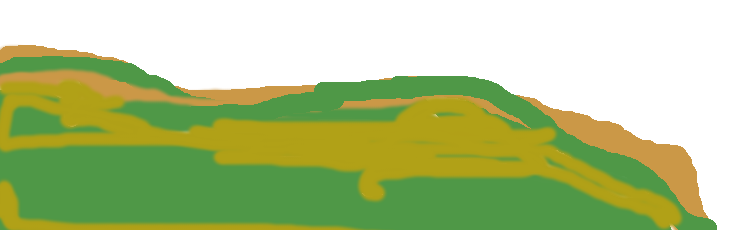
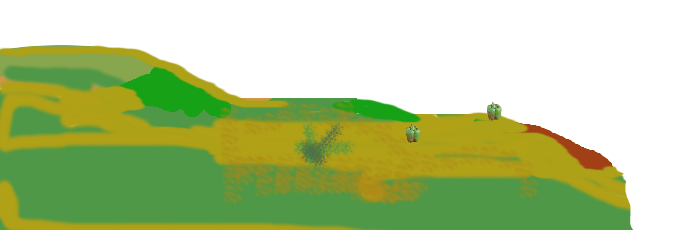
Avoid "Walking in the Air" mode

diff --git a/public_html/js/lib/my/lemmings.js b/public_html/js/lib/my/lemmings.js
@@ -18,9 +18,12 @@ define(['my/assetsHolder', 'easeljs', 'ndgmr'],
                     images: [assetsHolder.sheet('lemmingWalk')],
                     //Width, height and registration point of each sprite
                     frames: {width: 64, height: 64, regX: 32, regY: 32},
+                    //frames: {width: 85, height: 83, regX: 32, regY: 32},
+                    
                     // To slow down the animation loop of the sprite, we set the frequency to 4 to slow down by a 4x factor
                     animations: {
                         walk: [0, 9, 'walk', 6]
+                        //walk: [0, 4, 'walk', 6]
                     }
                 });
 
@@ -56,6 +59,7 @@ define(['my/assetsHolder', 'easeljs', 'ndgmr'],
                 /**
                  * 
                  * @param {createjs.Stage} aStage
+                 * @param {createjs.Bitmap} aLevel 
                  * @param {Number} scr_width
                  * @param {Number} scr_height
                  * @returns {status: Number, screen_width: Number, screen_height: Number, walkAnimation: createjs.BitmapAnimation, fallAnimation: createjs.BitmapAnimation}
@@ -74,7 +78,7 @@ define(['my/assetsHolder', 'easeljs', 'ndgmr'],
                         screen_width: scr_width,
                         screen_height: scr_height,
                         stage: aStage,
-                        level: aLevel,
+                        level: aLevel
                     };
 
                     //Create a BitmapAnimation instance to display and play back the sprite sheet:
@@ -91,7 +95,7 @@ define(['my/assetsHolder', 'easeljs', 'ndgmr'],
 
                     // set up a shadow. Note that shadows are ridiculously expensive. You could display hundreds
                     // of animated rats if you disabled the shadow.
-                    lemming.walkAnimation.shadow = new createjs.Shadow("#454", 0, 5, 4);
+                    //lemming.walkAnimation.shadow = new createjs.Shadow("#454", 0, 5, 4);
 
                     lemming.walkAnimation.name = 'lemmingWalk';
                     lemming.walkAnimation.direction = 90;
@@ -110,7 +114,7 @@ define(['my/assetsHolder', 'easeljs', 'ndgmr'],
                     lemming.fallAnimation.y = 32;
                     lemming.fallAnimation.regX = lemming.fallAnimation.spriteSheet.frameWidth / 2 | 0;
                     lemming.fallAnimation.regY = lemming.fallAnimation.spriteSheet.frameHeight / 2 | 0;
-                    lemming.fallAnimation.gotoAndPlay("fall"); 	//walking from left to right
+                    lemming.fallAnimation.gotoAndPlay("fall");
 
 
                     lemming.getStatus = function() {
@@ -131,7 +135,12 @@ define(['my/assetsHolder', 'easeljs', 'ndgmr'],
                         switch (this.status) {
                             case this.SPAWN:
                                 var collision = ndgmr.checkPixelCollision(this.fallAnimation, this.level, 0);
+                                //var collision = ndgmr.checkRectCollision(this.fallAnimation, this.level);
                                 if (collision) {
+                                    
+                                    //Check for non transparent pixel in level
+                                    
+                                    
                                     this.status = this.WALKING;
                                     this.walkAnimation.direction = 90;
                                     this.walkAnimation.x = this.fallAnimation.x;
@@ -154,7 +163,6 @@ define(['my/assetsHolder', 'easeljs', 'ndgmr'],
                                 }
                                 break;
                         }
-
 
                         // Hit testing the screen width, otherwise our sprite would disappear
 //                        if (this.walkAnimation.x >= this.screen_width - 16) {

diff --git a/public_html/js/app.js b/public_html/js/app.js
@@ -66,7 +66,7 @@ requirejs(['my/assetsHolder', 'easeljs', 'my/lemmings', 'ndgmr'],
                 //Load level 
                 levelBitmap = new createjs.Bitmap(assetsHolder.sheet('level'));
                 levelBitmap.x=0;
-                levelBitmap.y=230;
+                levelBitmap.y=190;
                 stage.addChild(levelBitmap);
                 //stage.prototype.level = levelBitmap;
 
@@ -112,7 +112,7 @@ requirejs(['my/assetsHolder', 'easeljs', 'my/lemmings', 'ndgmr'],
                 var ticks = createjs.Ticker.getTicks();
                 if (ticks % 300 === 0) {
 
-                    if (lemming_list.length < 3) {
+                    if (lemming_list.length < 5) {
                         var lemming = createLemming();
 
                         stage.addChild(lemming.fallAnimation);

diff --git a/public_html/index.html b/public_html/index.html
@@ -15,7 +15,7 @@ and open the template in the editor.
 
         </div>
         <div class="canvasHolder">
-            <canvas id="gameCanvas" width="800" height="480" style="background-color:#ADD6FF">
+            <canvas id="gameCanvas" width="740" height="420" style="background-color:#ADD6FF">
                 Your browser doesn't support canvas.
             </canvas>
         </div>

diff --git a/public_html/js/lib/my/assetsHolder.js b/public_html/js/lib/my/assetsHolder.js
@@ -37,6 +37,7 @@ define([],function() {
      */
     function _loadAll(){
         _loadImg('lemmingWalk', _imgPath+'/MonsterARun.png');        
+        //_loadImg('lemmingWalk', _imgPath+'/oorjG.png');        
         _loadImg('lemmingFall', _imgPath+'/MonsterAIdle.png');
         _loadImg('level', _imgPath+'/alevel.png');
     }
